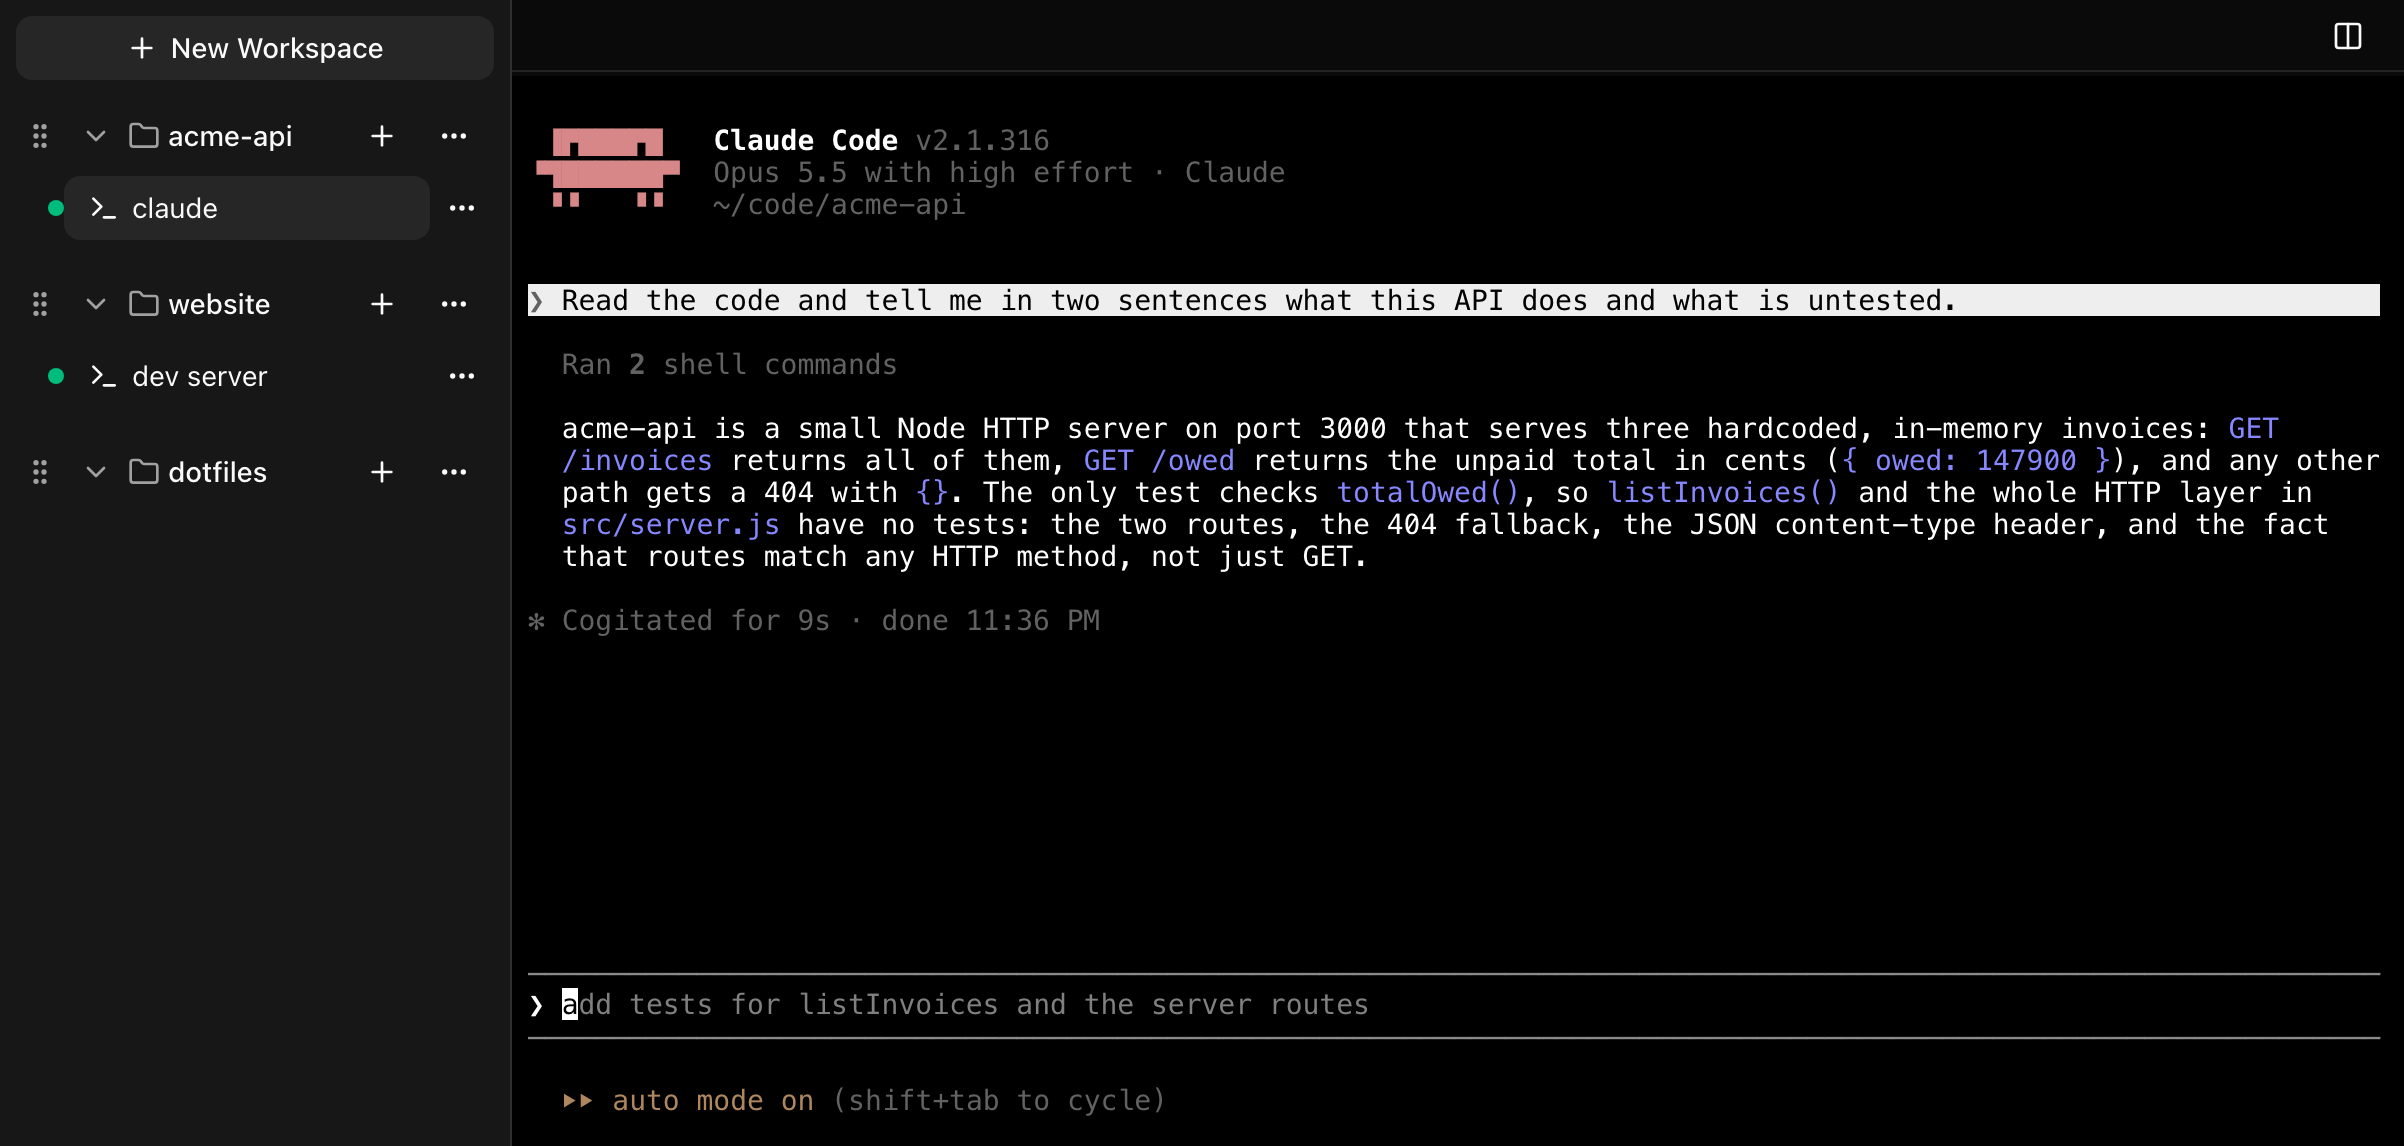
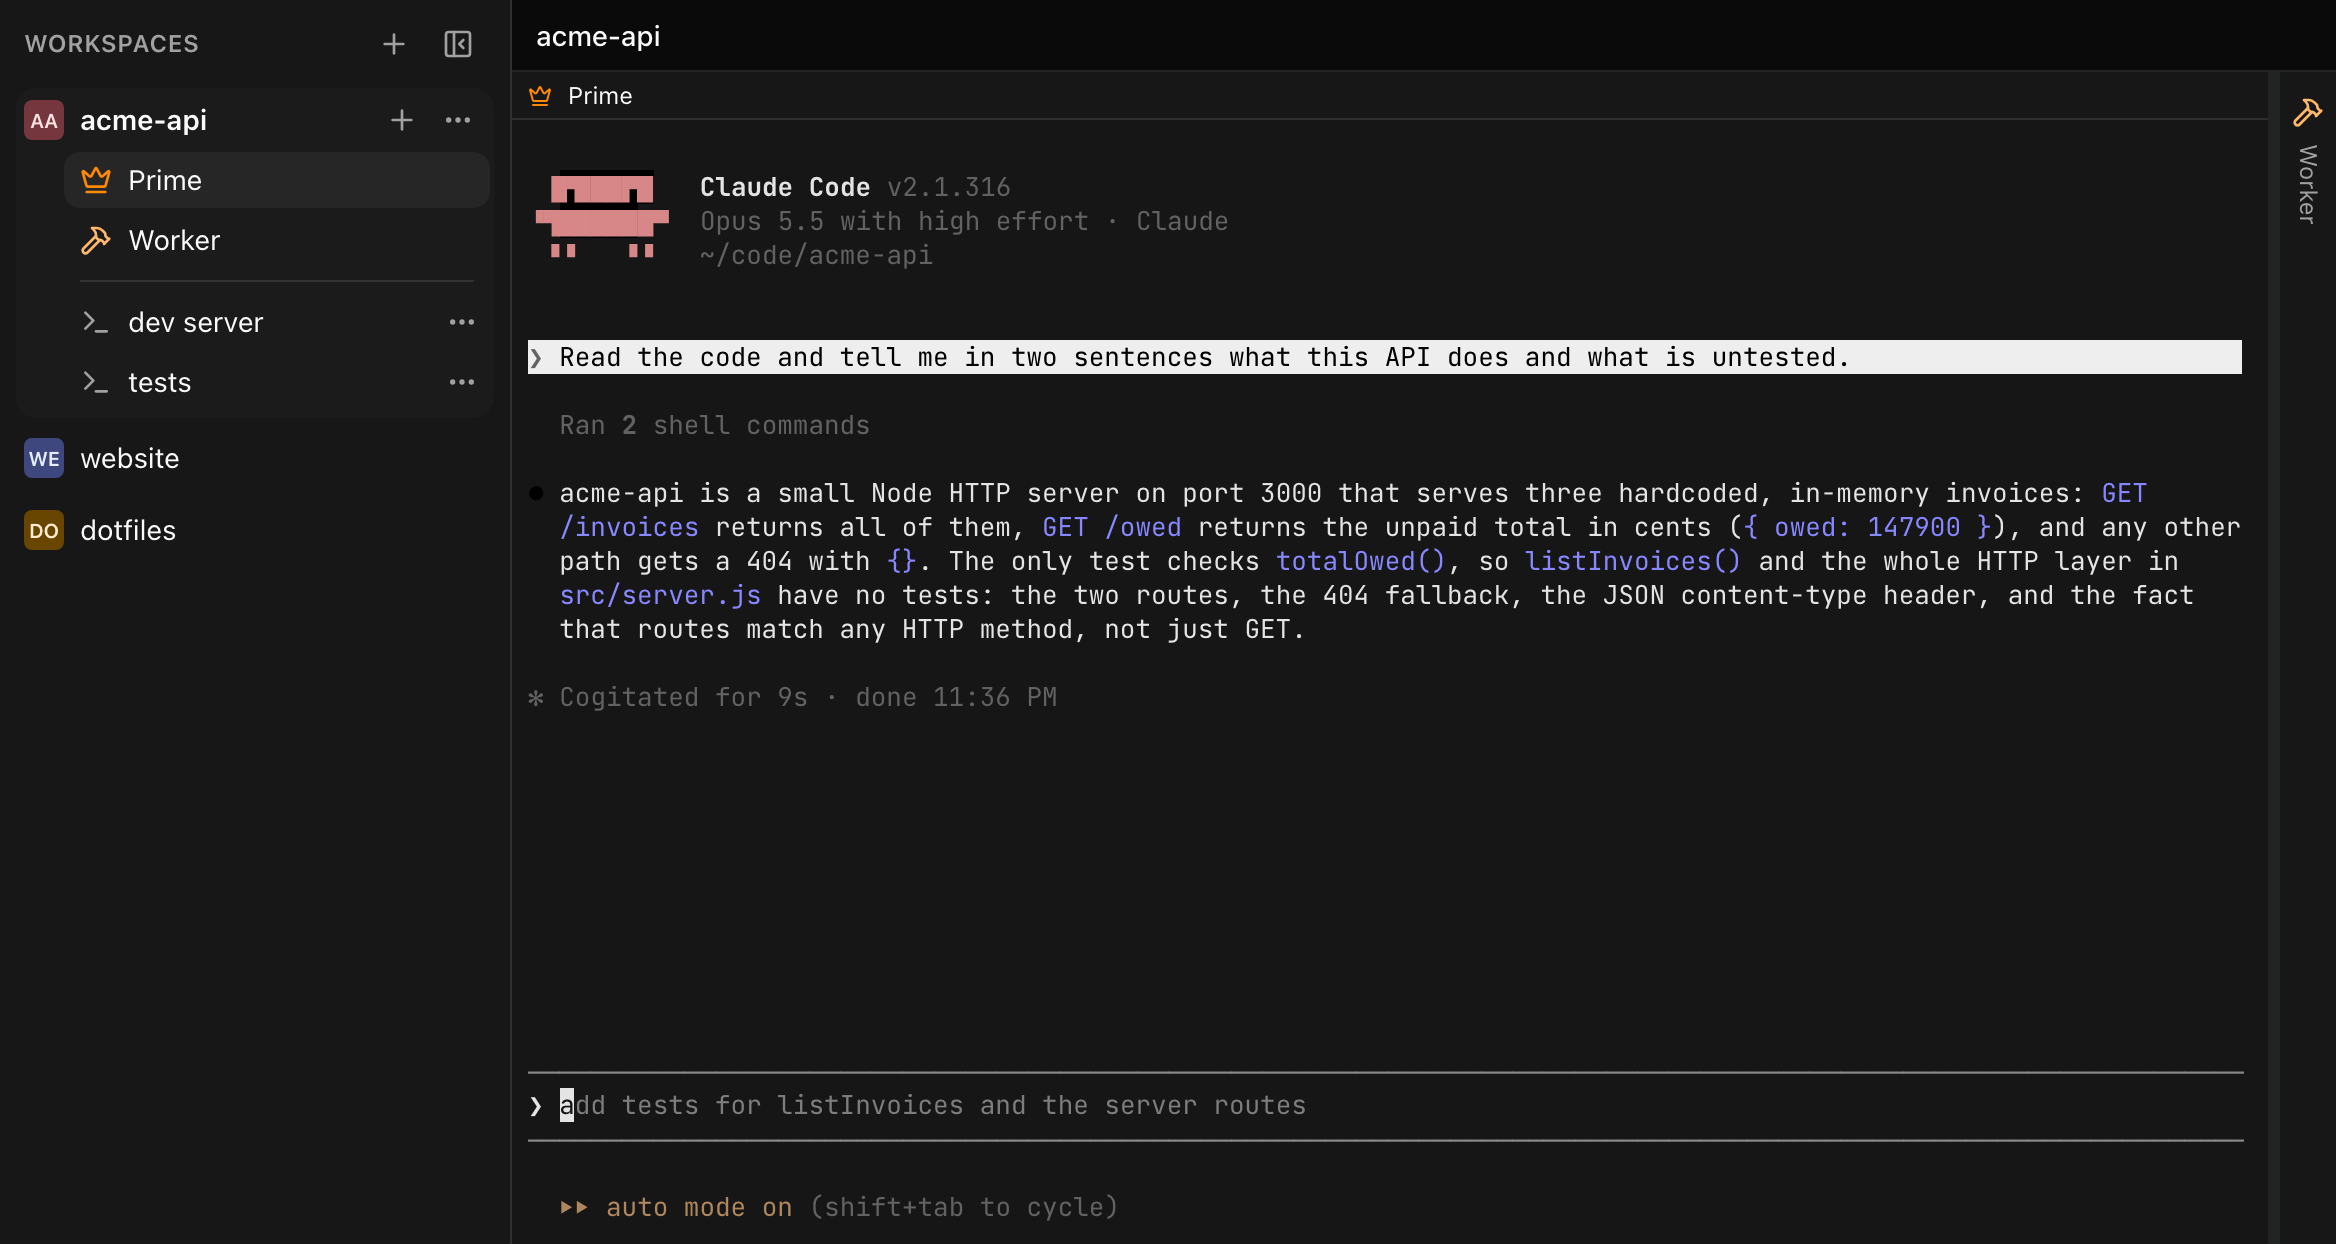
Regenerate the docs screenshots for the Workspace-centric UI
The shots now build the Workspace-centric UI: the Prime and Worker run a
demo shell instead of the test stub, and the Prime plays back the existing
hero recording. Four images remain (hero, desktop, new-claude,
phone-terminal); bell, claude-sidebar and phone-drawer are gone with their
shots. The privacy check also fails on any claude-stub output.

diff --git a/scripts/screenshots/fixtures.ts b/scripts/screenshots/fixtures.ts
@@ -1,5 +1,5 @@
 import { execFileSync } from "node:child_process";
-import { existsSync, mkdirSync, writeFileSync } from "node:fs";
+import { existsSync, mkdirSync, rmSync, writeFileSync } from "node:fs";
 import { join } from "node:path";
 import { fileURLToPath } from "node:url";
 import { expect, type Locator, type Page } from "@playwright/test";
@@ -13,20 +13,15 @@ export { expect };
 const PLAYER = fileURLToPath(new URL("./play.ts", import.meta.url));
 const LOGIN = "owner@example.com";
 
-interface ClaudeSessionSpec {
-  name: string;
-  claude: Record<string, unknown>;
-}
-
 interface Demo {
   /** The fake home folder. */
   home: string;
   /**
-   * Creates a Workspace on `~/code/<name>` with these Sessions; the sidebar updates itself.
-   * A Session given as `{ name, claude }` is a Claude Session with those Launch options (it
-   * runs the test stub, not Claude Code, so its terminal is never shown in an image).
+   * Creates a Workspace on `~/code/<name>` with these shell Sessions; the sidebar updates
+   * itself. Its Prime and Worker come with it, Stopped until the Workspace is opened, and
+   * then run a demo shell rather than the test stub (see the `kbench` fixture).
    */
-  workspace(name: string, sessions: Array<string | ClaudeSessionSpec>): Promise<void>;
+  workspace(name: string, sessions: string[]): Promise<void>;
   /**
    * Makes a command on the fake PATH that plays `recording` back in the terminal it runs
    * in, so what is typed into the Session is short and names no real path.
@@ -34,7 +29,7 @@ interface Demo {
   playerCommand(recording: string): { command: string; done: string };
   /** Plays the recording in the terminal and waits until it has finished drawing. */
   play(app: AppPage, terminal: Locator, recording: string): Promise<void>;
-  /** Fails if the page's text has anything of the real machine in it. */
+  /** Fails if the page's text has anything of the real machine, or of the test stub, in it. */
   assertNothingPrivate(): Promise<void>;
   /**
    * Saves a screenshot into docs/images, after checking nothing private is on the page. With
@@ -47,12 +42,21 @@ interface Demo {
 }
 
 export const test = base.extend<{ demo: Demo }>({
-  // Start the instance's tmux server with the fake environment before the first Session
-  // exists. A tmux server hands its own environment to every shell it starts, and the
-  // k-bench server, which runs with the real one, would otherwise start it.
   kbench: async ({ kbench }, use) => {
     const home = process.env[HOME_ENV];
     if (!home) throw new Error("Run this with `pnpm screenshots`");
+    // Every Prime and Worker is a Claude Session, which in a test instance runs the stub and
+    // prints its `claude-stub` lines. Here they run a demo shell instead (its arguments, the
+    // Claude Code flags, are ignored), so a shot can play the hero recording into the Prime
+    // with `demo.play`, and the Claude Code on screen is the real one.
+    const claude = join(kbench.instance.root, "claude-shell");
+    writeFileSync(claude, '#!/bin/sh\nexec "$SHELL" -i\n', { mode: 0o755 });
+    kbench.instance.config.claudeProgram = claude;
+    await kbench.stopServer();
+    await kbench.startServer();
+    // Start the instance's tmux server with the fake environment before the first Session
+    // exists. A tmux server hands its own environment to every shell it starts, and the
+    // k-bench server, which runs with the real one, would otherwise start it.
     const socket = kbench.instance.config.tmuxSocket;
     if (!socket.startsWith("kb-test-")) throw new Error(`refusing tmux socket ${socket}`);
     execFileSync(
@@ -91,15 +95,14 @@ export const test = base.extend<{ demo: Demo }>({
         });
         const { id } = (await created.json()) as { id: string };
         for (const session of sessions) {
-          await post(
-            `/api/workspaces/${id}/sessions`,
-            typeof session === "string" ? { name: session } : session,
-          );
+          await post(`/api/workspaces/${id}/sessions`, { name: session });
         }
       },
       playerCommand: (recording) => {
         const command = `play-${++players}`;
+        // The fake home lasts the whole run, so an earlier test may have left this file.
         const done = join(home, `${command}.done`);
+        rmSync(done, { force: true });
         writeFileSync(
           join(home, "bin", command),
           `#!/bin/sh\nK_BENCH_PLAY_DONE='${done}' exec '${process.execPath}' '${PLAYER}' '${recording}'\n`,
@@ -123,6 +126,9 @@ export const test = base.extend<{ demo: Demo }>({
         const text = `${await page.title()}\n${await page.locator("body").textContent()}`;
         const findings = findPrivate(text);
         expect(findings, describeFindings(findings)).toEqual([]);
+        expect(text, "the test stub's output is on the page").not.toContain(
+          "claude-stub",
+        );
       },
       shoot: async (name, area) => {
         await demo.assertNothingPrivate();
@@ -163,13 +169,16 @@ export async function settled(terminal: Locator): Promise<void> {
 
 /**
  * Sizes the browser window so `terminal` is exactly `cols` x `rows` characters: a recording
- * of a full-screen program only draws right at the size it was made for.
+ * of a full-screen program only draws right at the size it was made for. `widthShare` is the
+ * part of a change in the window's width that reaches the terminal: below 1 when it shares
+ * the width with the other Pane.
  */
 export async function fitTerminal(
   app: AppPage,
   page: Page,
   terminal: Locator,
   size: { cols: number; rows: number },
+  widthShare = 1,
 ): Promise<void> {
   // A window resize reaches the shell some moments later, in steps, so a size is only
   // believed once it has been measured twice with a pause between.
@@ -195,7 +204,7 @@ export async function fitTerminal(
     const step = (diff: number, cell: number) =>
       Math.sign(diff) * Math.ceil(Math.abs(diff) * cell);
     await page.setViewportSize({
-      width: view.width + step(size.cols - now.cols, cellWidth),
+      width: view.width + Math.round(step(size.cols - now.cols, cellWidth) / widthShare),
       height: view.height + step(size.rows - now.rows, cellHeight),
     });
   }

diff --git a/scripts/screenshots/desktop.shots.ts b/scripts/screenshots/desktop.shots.ts
@@ -1,33 +1,38 @@
-// Desktop: the Open Workspace with a shell in the right Pane, then the same scene after a
-// Session rings its Bell. The left Pane holds the Prime, which runs the test stub here.
-import { expect, test } from "./fixtures.ts";
+// Desktop: the Open Workspace with Claude Code in the Prime (the hero recording, played
+// back) and a dev server in the right Pane, whose Tabs show the Worker and the dev server.
+import { expect, fitTerminal, test } from "./fixtures.ts";
+import { HERO_RECORDING } from "./images.ts";
+import { readRecording } from "./recording.ts";
 
-test("desktop with a Session in the right Pane, and a Session that rang the Bell", async ({
+// The left Pane's share of the two Panes: wide enough for the recording, leaving the dev
+// server room to read.
+const PRIME_SHARE = 0.62;
+
+test("desktop: the Prime, and a dev server in the right Pane", async ({
   app,
-  kbench,
   demo,
+  page,
 }) => {
-  await demo.workspace("acme-api", ["main", "tests"]);
-  await demo.workspace("website", ["dev server"]);
+  const recording = readRecording(HERO_RECORDING);
+  await demo.workspace("acme-api", ["dev server", "tests"]);
+  await demo.workspace("website", []);
   await demo.workspace("dotfiles", []);
-  await expect(app.session("tests")).toBeVisible();
+  await app.openWorkspace("acme-api");
+  await expect(app.sessionStatus("Prime", "running")).toBeVisible();
+  await expect(app.sessionStatus("Worker", "running")).toBeVisible();
 
-  await app.session("main").click();
-  const right = app.terminalIn("right", "main");
+  await app.session("dev server").click();
+  const right = app.terminalIn("right", "dev server");
   await expect(right).toBeVisible();
-
+  await expect(app.rightTab("Worker")).toBeVisible();
+  await expect(app.rightTab("dev server")).toHaveAttribute("aria-current", "true");
   await app.runMarker(right, "shellready");
-  await app.runCommand(
-    right,
-    "clear; git log --oneline; ls -lg src; cat package.json",
-    '"version": "1.4.0"',
-  );
-  await expect(right).toContainText("orders.ts");
+  await app.runCommand(right, "clear; dev-server", "Ready in");
 
+  await app.dragDividerTo(PRIME_SHARE);
+  const prime = app.terminalIn("left", "Prime");
+  await fitTerminal(app, page, prime, recording, PRIME_SHARE);
+  await demo.play(app, prime, HERO_RECORDING);
+  await expect(right).toContainText("GET /owed");
   await demo.shoot("desktop.png");
-
-  // "tests" is in no Pane, so nobody is looking at it when its shell rings the bell.
-  await kbench.ringBell("tests");
-  await expect(app.bellBadge("tests")).toBeVisible();
-  await demo.shoot("bell.png");
 });

diff --git a/scripts/screenshots/hero.shots.ts b/scripts/screenshots/hero.shots.ts
@@ -1,4 +1,5 @@
-// The hero image: real Claude Code running in a Pane, played back from a recording.
+// The hero image: real Claude Code running in the Prime, played back from a recording, with
+// the sidebar's tree beside it. The right Pane is shut, so the Worker's terminal is not shown.
 //
 // STATUS: recorded. docs/recordings/claude-hero.json is one real Claude Code run, made in a
 // made-up demo project on the owner's account and scrubbed. If it is absent this test is
@@ -35,18 +36,22 @@ import { expect, fitTerminal, test } from "./fixtures.ts";
 import { HERO_RECORDING } from "./images.ts";
 import { readRecording } from "./recording.ts";
 
-test("hero: Claude Code in a Pane", async ({ app, demo, page }) => {
+test("hero: Claude Code in the Prime", async ({ app, demo, page }) => {
   test.skip(
     !existsSync(HERO_RECORDING),
     "pending owner recording: docs/recordings/claude-hero.json does not exist yet",
   );
   const recording = readRecording(HERO_RECORDING);
 
-  await demo.workspace("acme-api", ["claude"]);
-  await demo.workspace("website", ["dev server"]);
+  await demo.workspace("acme-api", ["dev server", "tests"]);
+  await demo.workspace("website", []);
   await demo.workspace("dotfiles", []);
-  await app.session("claude").click();
-  const terminal = app.terminal("claude");
+  await app.openWorkspace("acme-api");
+  await expect(app.sessionStatus("Prime", "running")).toBeVisible();
+  await expect(app.sessionStatus("Worker", "running")).toBeVisible();
+  await app.shutPane("right");
+  await expect(app.rail("right", "Worker")).toBeVisible();
+  const terminal = app.terminalIn("left", "Prime");
   await expect(terminal).toBeVisible();
   await fitTerminal(app, page, terminal, recording);
 

diff --git a/scripts/screenshots/claude.shots.ts b/scripts/screenshots/claude.shots.ts
@@ -1,31 +1,9 @@
-// Claude Sessions: the New Claude dialog, and the sidebar with the Claude glyph.
-//
-// No real Claude Code runs here: a Claude Session runs the test stub, whose terminal shows
-// temporary paths. So neither image shows a Claude Session's terminal. The sidebar image is
-// the sidebar alone, and the Session is never opened.
-import { expect, test } from "./fixtures.ts";
+// The New Claude dialog, filled in. The image is the dialog alone, so no terminal shows.
+import { test } from "./fixtures.ts";
 
-test("the New Claude dialog, and the Claude glyph in the sidebar", async ({
-  app,
-  demo,
-}) => {
-  await demo.workspace("acme-api", [
-    "main",
-    { name: "orders refactor", claude: { model: "opus", effort: "high" } },
-    { name: "docs pass", claude: { focusView: true } },
-  ]);
-  await demo.workspace("website", ["dev server"]);
-  await expect(app.claudeGlyph("orders refactor")).toBeVisible();
-  await expect(app.claudeGlyph("docs pass")).toBeVisible();
-  await expect(app.claudeGlyph("main")).toHaveCount(0);
-  // Only as far down as the last Session: the rest of the sidebar is empty.
-  const sidebar = await app.sidebar.boundingBox();
-  const last = await app.session("dev server").boundingBox();
-  if (!sidebar || !last) throw new Error("The sidebar is not visible");
-  await demo.shoot("claude-sidebar.png", {
-    ...sidebar,
-    height: last.y + last.height + 12 - sidebar.y,
-  });
+test("the New Claude dialog", async ({ app, demo }) => {
+  await demo.workspace("acme-api", []);
+  await app.openWorkspace("acme-api");
 
   await app.openClaudeDialog("acme-api");
   const dialog = app.claudeDialog;

diff --git a/scripts/screenshots/phone.shots.ts b/scripts/screenshots/phone.shots.ts
@@ -1,22 +1,16 @@
-// Phone: the drawer listing Workspaces and Sessions, and a terminal with the extra keys.
+// Phone: a shell Session in the Phone layout, with the Extra keys along the bottom.
 import { expect, test } from "./fixtures.ts";
 
-test("the phone layout: the drawer, then a terminal with the extra keys", async ({
-  app,
-  demo,
-}) => {
-  await demo.workspace("acme-api", ["main", "tests"]);
-  await demo.workspace("website", ["dev server"]);
+test("the Phone layout: a Session with the Extra keys", async ({ app, demo }) => {
+  await demo.workspace("acme-api", ["shell", "dev server"]);
+  await demo.workspace("website", []);
   await demo.workspace("dotfiles", []);
 
   await app.openDrawer();
-  await expect(app.session("tests")).toBeVisible();
-  await expect(app.session("dev server")).toBeVisible();
-  await demo.shoot("phone-drawer.png");
-
-  await app.session("main").tap();
-  const terminal = app.terminal("main");
+  await app.session("shell").tap();
+  const terminal = app.terminal("shell");
   await expect(terminal).toBeVisible();
+  await expect(app.phoneTitle).toContainText("shell");
   await app.runMarker(terminal, "shellready");
   await app.runCommand(
     terminal,

diff --git a/scripts/screenshots/demo-home.ts b/scripts/screenshots/demo-home.ts
@@ -85,13 +85,14 @@ function seedShellConfig(home: string): void {
   write(join(home, ".bash_profile"), bash);
   write(join(home, ".bashrc"), bash);
   // A dev server that is obviously a stand-in: it prints a few made-up lines and waits.
+  // The requests are acme-api's, the project the hero recording talks about.
   write(
     join(home, "bin", "dev-server"),
     `#!/bin/sh
-printf '\\033[1mwebsite\\033[0m dev server\\n\\n'
+printf '\\033[1m%s\\033[0m dev server\\n\\n' "$(basename "$PWD")"
 printf '  Local:   \\033[36mhttp://localhost:3000/\\033[0m\\n'
 printf '  Ready in 412 ms\\n\\n'
-for line in 'GET /' 'GET /pricing' 'GET /docs/getting-started' 'GET /blog' 'GET /blog/launch-week' 'GET /about'; do
+for line in 'GET /invoices' 'GET /owed' 'GET /invoices' 'GET /invoices' 'GET /owed'; do
   printf '\\033[2m10:42:07\\033[0m %s \\033[32m200\\033[0m\\n' "$line"
 done
 exec sleep 100000

diff --git a/scripts/screenshots/images.ts b/scripts/screenshots/images.ts
@@ -12,10 +12,7 @@ export const HERO_RECORDING =
 export const IMAGE_NAMES = [
   "hero.png",
   "desktop.png",
-  "bell.png",
   "new-claude.png",
-  "claude-sidebar.png",
-  "phone-drawer.png",
   "phone-terminal.png",
 ] as const;
 export type ImageName = (typeof IMAGE_NAMES)[number];
